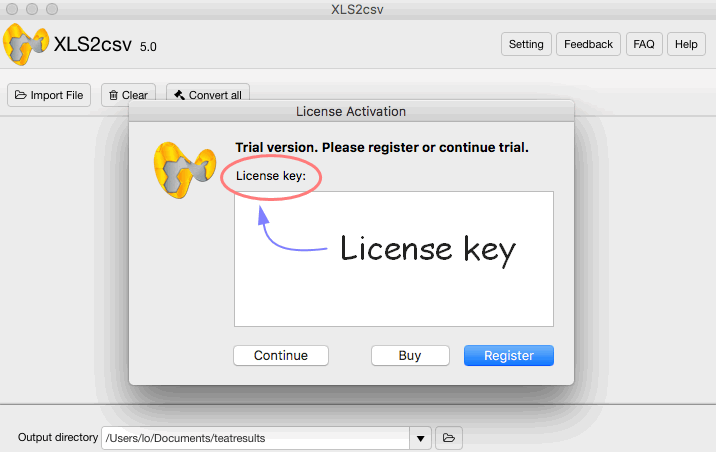
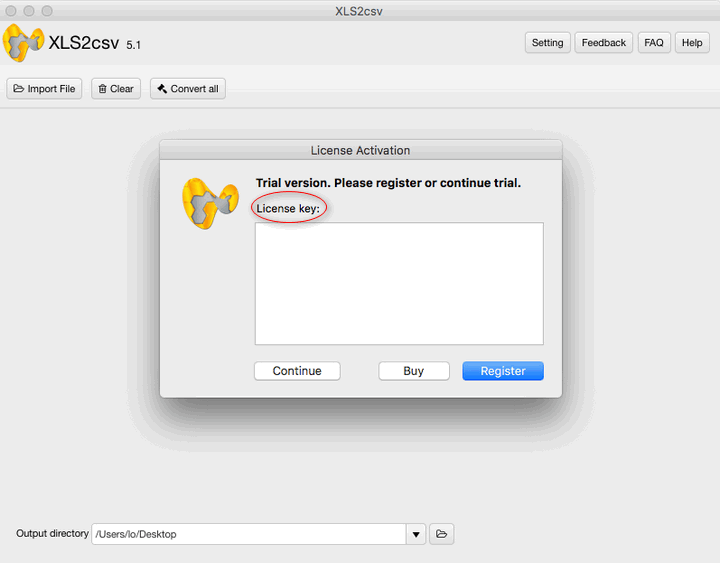
update

Changed region(s): [[0.0, 0.0, 1.0, 1.0], [0.7067, 0.0619, 0.9832, 0.1239], [0.4609, 0.0, 0.5531, 0.031]]

diff --git a/source/products/store/xls2csv/docs.md b/source/products/store/xls2csv/docs.md
@@ -8,7 +8,7 @@ current: docs
 
 # MANUAL
 ## XLS2csv
-Excel XLS/XLSX files to CSV Converter app for Mac OS X
+XLS/XLSX to CSV Converter app for Mac OS X
 
 Version 5.1
 
@@ -17,57 +17,50 @@ Version 5.1
 
  ### **Preface**:
 
->Are you thrive to improve your working efficiency?
+>Are you trying to improve your working efficiency?
 
->Have you need your XLS files be interpreted quickly?
+>Need to handle large XLS or XLSX files on you Mac?
 
->Do you need to make your data to be saved in a table structured format?
+>Want to change Excel spreadsheets into plain text CSV?
 
-If you answer yes to one of these questions, the XLS2csv is the best choice for you.
+If your answer is yes, XLS2csv is what you need.
 
 <br>
 ### **Introduction**: 
-XLS is a MS Excel workbook binary file, which holds information about all the worksheets in a workbook, comprising both content and formatting (number masking, colouring, conditional formatting, etc), and it can also hold additionals like charts, images, etc. XLS files can only be read by applications that have been especially written to read their format, and can only be written in the same way.
+XLS is the default file format for the 2003 version of Excel and older while XLSX for versions since 2007. XLS is based on BIFF (Binary Interchange File Format) and as such, the information is directly stored to a binary format. On the other hand, XLSX is based on the Office Open XML format, a file format that was derived from XML. The information in an XLSX file is stored in a text file that uses XML to define all its parameters.
 
-A CSV file is a way to collect the data from any table so that it can be conveyed as input to another table-oriented application such as a relational database application. Microsoft Excel, a leading spreadsheet or relational database application, can read CSV files. A CSV file is sometimes referred to as a flat file.
+CSV files hold plain text as a series of values (cells) separated by commas (,) in a series of lines (rows). You can actually open a CSV file in a text editor and read it yourself. Many applications are capable of reading CSV files, and many languages provide built-in functions that simplify reading/writing CSV format.
 
-XLS2csv is an image format converter which tends to convert XLS to CSV format. The software is made for Mac users only (**macOS 10.7(64-bit)** or newer is required). Users will be released from annoying ads, bundled softwares, plug-ins, even log in and registration. By simply enjoying the swift, comfortable operation of XLS2csv, you are able to join our community and get our excellent after-sale services.  
+XLS2csv is a file converter which tends to convert XLS/XLSX files to CSV format. With it installed, you can not only do file conversion but also join our community and get our excellent after-sale services. No annoying ads, bundled software and plug-ins will be added onto your Mac. 
 
 <br>
 ### **Installation**:
-XLS2csv runs on Mac only, MacOS 10.7(64-bit) or newer is required. The new version 5.1 is released now in [DOWNLOAD](./download.html). 
+XLS2csv runs on Mac only, Mac OS X 10.7(64-bit) or above is required. The new version 5.1 is now released on our [DOWNLOAD page](./download.html). You can choose to download the .zip or .dmg package. When you open and run the software, the product interface will pop up. The following "User Guide" will instruct you how to use it. 
 
-There is a install package in [DOWNLOAD](./download.html) page, you need to choose one suitable package, click it and wait for the downloading. Then choose a suitable folder to put the software in and click "open" to run it.   
-
-When you open and run the software, the product interface will pop up. The following "User Guide" will instruct you how to operate it. 
-
-If you encounter any problems during or after installing XLS2csv please refer to [Frequently Asked Questions (FAQ)](./faq.html) first.
-
-**The trial version** for users to try out is also available in [DOWNLOAD](./download.html), and combined with the install package.
-
-
- You can click and download one of the files. When you open and run the software, a little window will pop up. If you choose to try out, click "continue" button, you can freely try this software thirty days. If you wanna to buy our product, then click "Buy" button to enter the online store. 
+ Once you run the software, a little window will pop up as below. If you choose to try it out, click "continue" button, you can try it for free 30 days. If you want to buy our product, click "Buy" button to enter the online store. 
 
 ![](./images/screens/xls2csv_trialversion_720x400.png) 
 
-If you encounter any problems during or after installing XLS2csv please refer to [Frequently Asked Questions (FAQ)](./faq.html) first.
+If you encounter any problems during or after installing XLS2csv, please refer to [Frequently Asked Questions (FAQ)](./faq.html) first.
 
 <br>
 ### **User Guide**:
-This section describes daily use guide to the XLS2csv clients. It instructs you how to use the software in details after the installation finished.
+This section instructs you how to purchase and run XLS2csv in detail. 
 
-1. Firstly, you need to open the file and run it, the window of XLS2csv will pop up in the desktop. As what have mentioned before, if you want to try out this software first, click "continue" to use the trial version, you have thirty days to try it freely. If you satisfied with our product,and decided to pay for it, please click the "Buy" button or directly come to our home page and enter the [BUY ONLINE](./buy.html)
+1. Firstly, run XLS2csv on your desktop. As what have mentioned before, if you want to try it out, simply click "continue". The free trial version will stop working after 30 days. If you are satisfied with our product, and decide to pay for it, please click the "Buy" button or directly go to our [BUY ONLINE](./buy.html).
 <br>
 2. Secondly, in the BUY ONLINE page, there are two optional purchase link for you, that is, you can choose to buy from our **official App store** or the Apple App store. The good news is, we offer a **coupon code** below the purchase link for anyone who is willing to buy from the Gmagon official App store. 
-<br>
 ![](./images/screens/xls2csv_buyonline_720x400.png) 
 <br>
 3. Thirdly, in the Gmagon Online Store, you need to put the product in your cart, fill the Billing Information, choose your payment information, and finish the whole purchase process.
-<br>
 ![](./images/screens/xls2csv_onlinestore_720x400.png) 
 <br>
-4. Finally, after you finish the purchasing process of the product, you can get the **active code** from us. When you run the software, a registered window will pop up, then you need to copy and paste the active code in the **license key** text box, then click "register" button to finish the License Activation.
-<br>
+4. Finally, after you finished the purchasing process, you can get the **active code** from us. When you run the software, a registered window will pop up, then you need to copy and paste the active code in the **license key** text box, then click "register" button to finish the License Activation.
 ![](./images/screens/xls2csv_licensekey_720x400.png)  
-<br>
-Hope the XLS2csv will help you enjoy a high-quality user experience and make your life more convenient than ever. We'd like to receive and answer any question from you, if you are willing to communicate with us in <a href="https://gitter.im/Gmagon/support" target="_blank" rel="nofollow me noopener noreferrer"> <strong>Support Center</strong> </a> and join our community. We will strive to provide the best services we can offer with our customers. 
+
+Hope Gmagon XLS2csv will help you enjoy a high-quality user experience and make your life more convenient than ever. We'd like to receive and answer any question from you, if you are willing to communicate with us in <a href="https://gitter.im/Gmagon/support" target="_blank" rel="nofollow me noopener noreferrer"> <strong>Support Center</strong> </a> and join our community. We will strive to provide the best services we can offer with our customers. 
+
+**Learn more**
+- [How to convert XLS to CSV on a Mac? ](../../../guide/convert-xls-to-csv-on-mac.html)
+- [How to convert a .xlsx file to .csv on Mac?](../../../guide/how-to-convert-a-xlsx-file-to-csv-on-mac.html)
+- [CSV UTF8 - Excel XLS to CSV with UTF-8 encoding ](../../../guide/xls2csv/csv-utf8.html)

diff --git a/source/products/store/xls2csv/index.md b/source/products/store/xls2csv/index.md
@@ -3,8 +3,8 @@ title: XLS2csv - convert XLS files to CSV on Mac
 subtitle: XLS2csv
 comments: false
 current: index
-keywords: xls/xlsx to csv converter for mac, convert excel files to csv on mac, excel files to csv converter mac, mac xls 2 csv converter, export xls/xlsx to csv 
-description: XLS2csv is an easy-to-use Excel XLS/XLSX to CSV converter for Mac. It helps users to batch convert XLS/XLSX files to CSV format on Mac OS X. 
+keywords: xls2csv, xlsx to csv converter, xls to csv converter mac, mac xlsx to csv converter, excel to csv converter for mac
+description: XLS2csv is an easy-to-use XLS/XLSX to CSV converter for Mac. It helps users to batch convert XLS/XLSX files to CSV format on Mac OS X. 
 ---
 
 
@@ -12,9 +12,11 @@ description: XLS2csv is an easy-to-use Excel XLS/XLSX to CSV converter for Mac. 
 
 ![](./images/screens/xls2csv.gif)
 <br>
-**XLS2csv** is an easy-to-use file converter that easily converts Excel files out there to CSV format on Mac, namely, it is an XLS to CSV converter for Mac. It helps those who are looking for a handy app to convert XLS files to CSV format on Mac OS X. The software can intelligently recognize an XLS file and convert it to CSV format quickly. In addition, batch conversion from xls to csv is also supported here. Users are allowed to drag and drop a file or directory to the interface of XLS2csv, and preview the loaded Excel speadsheets before the conversion. By clicking Setting button, users can set up their preferable language of the tool. Besides, there are Feedback, FAQ and Help choices for users' convenience in case any problems occurred during users' experience.
+**XLS2csv** a simple and intuitive XLS/XLSX to CSV Converter for Mac. It handles .xls/.xlsx files from Microsoft Excel, Apple Numbers, Open Offices Excel and converts them to .csv text file format on Mac platform. 
 
-XLS2csv converter fits into any budget and grows with your needs. Try the XLS2csv now and see how it can make your job easier. Everything you need is contained in one simple installer, no additional downloads or plug-ins are required. We make it simple for you, now and later!
+This Mac XLS2csv converter app can intelligently recognize large XLS/XLSX files as well as a group of XLS/XLSX files and batch convert them to CSV format quickly. Users are allowed to drag-and-drop a file or directory to the interface of XLS2csv, and preview the loaded Excel spreadsheets before conversion. Plus, you can customize delimiters in the CSV as comma, semicolon, space, tab, etc.
+
+XLS2csv converter fits into any budget and grows with your needs. Try the app now and see how it can make your job easier. Everything you need is contained in one simple installer, no additional downloads or plug-ins are required. We make it simple for you, now and later!
 
 <br>
 <div class="buy">
@@ -25,14 +27,13 @@ XLS2csv converter fits into any budget and grows with your needs. Try the XLS2cs
 <br>
 
 ## USE CASES: BUILT FOR YOU
- XLS is an MS Excel workbook binary file, which holds information about all the worksheets in a workbook, and can also hold additionals like charts, images, etc. XLS files can only be read by applications that have been especially written to read their format, and can only be written in the same way. Pre-2007 versions of Excel use XLS as the primary format for saving files. It features calculation, graphing tools, pivot tables, and a macro programming language called Visual Basic for Applications. It has been a very widely applied spreadsheet for these platforms 
+XLS and XLSX are two file extensions that are used by the very popular spreadsheet application from Microsoft named Microsoft Excel. XLS is very popular as it has been the default format for Microsoft Excel since it was first created up till 2003. In the Microsoft Office 2007 release, Microsoft decided to change the default file format to a different format and adding and additional x for all their document extensions; for Excel, this ended up as XLSX.
 
-A CSV is a comma separated values file which allows data to be saved in a table structured format. CSV files can be used with any spreadsheet program, such as Microsoft Excel, Open Office Calc, or Google Spreadsheets. They differ from other spreadsheet file types in that you can only have a single sheet in a file, they can not save cell, column, or row styling, and can not save formulas. In e-commerce, CSVs are used primarily for importing and exporting product, customer, and order information to and from your store:
+As we look deeper into the differences between XLS and XLSX, we can see that the way the information is stored is vastly different for both XLS and XLSX formats. XLS is based on BIFF (Binary Interchange File Format) and as such, the information is directly stored to a binary format. On the other hand, XLSX is based on the Office Open XML format, a file format that was derived from XML. The information in an XLSX file is stored in a text file that uses XML to define all its parameters.
 
-1. **Importing and Exporting Products**: Importing your products is the fastest way to create or update products in bulk. A product import involves having all of your product information in a CSV file, which can be edited as a spreadsheet. Upon import, your column headers will be matched with their corresponding product, and the product information will be updated accordingly. Importing products has a variety of uses, such as updating products, creating new products and options, etc. 
-<br>
-2. **Importing Product Options**: Importing your options is an efficient way to handle the sometimes lengthy task of adding product options to each of your products. The following guide walks you through creating Product Options by importing a CSV file file. 
-<br>
-3. **Importing Customers**: Importing your customers is the fastest way to add or update their information in bulk. A customer import involves having all of your customer information in a CSV file, which can be edited as a spreadsheet. Upon import, your column headers will be matched with their corresponding customer fields, and the customer information will be updated accordingly.
-<br>
+As XLSX is stored in a text file format, Microsoft decided to remove macro support for this file format. Instead they assigned a totally different file extension that allows the use of macros; it is named XLSM. The older XLS file extension does not have this issue and it is able to hold spreadsheets that contain macros or not.
+
+A CSV is a comma separated values file which allows data to be saved in a table structured format. CSV files can be used with any spreadsheet program, such as Microsoft Excel, Open Office Calc, or Google Spreadsheets. They differ from other spreadsheet file types in that you can only have a single sheet in a file, they can not save cell, column, or row styling, and can not save formulas. In e-commerce, CSVs are used primarily for importing and exporting product, customer, and order information to and from your store.
+
+CSV files hold plain text as a series of values (cells) separated by commas (,) in a series of lines (rows). You can actually open a CSV file in a text editor and read it yourself. CSV files are intentionally designed to be widely supported; any OS or application that imports or exports data usually has CSV support.  
 ![](./images/screens/xls2csv_1440x900.jpg)

diff --git a/source/products/store/xls2csv/changelog.md b/source/products/store/xls2csv/changelog.md
@@ -73,8 +73,10 @@ current: changelog
 ### Core Engine part
 > Upgrade to Ver1.14
 
-
 <br>
-### Downloads:
-[Download XLS2csv-v5.1.dmg](http://www.filefactory.com/file/4bsfcg1ev6hv/XLS2csv-5.1.dmg)    | (~10.5MiB)
+### Download
+for macOS 64-bit OS | FileSize
+------------------------------ | -------------------------
+[Download XLS2csv-v5.1.dmg](http://www.filefactory.com/file/3erf0icxce6r/XLS2csv-5.1.dmg)    | (~10.52MiB)
+[Download XLS2csv-5.1.zip](http://www.filefactory.com/file/29qg8m1099l3/XLS2csv-5.1.zip)    | (~10.74MiB)
 ---

diff --git a/source/products/store/xls2csv/download.md b/source/products/store/xls2csv/download.md
@@ -16,8 +16,8 @@ For detailed info on what's new, read the [release notes](./changelog.html).
 
 for macOS 64-bit OS | FileSize
 ------------------------------ | -------------------------
-[Download XLS2csv-v5.1.dmg](http://www.filefactory.com/file/4bsfcg1ev6hv/XLS2csv-5.1.dmg)    | (~10.5MiB)
-
+[Download XLS2csv-v5.1.dmg](http://www.filefactory.com/file/3erf0icxce6r/XLS2csv-5.1.dmg)    | (~10.52MiB)
+[Download XLS2csv-5.1.zip](http://www.filefactory.com/file/29qg8m1099l3/XLS2csv-5.1.zip)    | (~10.74MiB)
 ---
 
 ##### Old Download

diff --git a/source/products/store/xls2csv/faq.md b/source/products/store/xls2csv/faq.md
@@ -9,3 +9,8 @@ current: faq
 ### What are the system requirements of XLS2csv?
 - MacOS 10.7(64-bit) or newer is required.
 - Admin privileges for the Installation
+
+**Click the links below to learn more**
+- [How to convert XLS to CSV on a Mac? ](../../../guide/convert-xls-to-csv-on-mac.html)
+- [How to convert a .xlsx file to .csv on Mac?](../../../guide/how-to-convert-a-xlsx-file-to-csv-on-mac.html)
+- [CSV UTF8 - Excel XLS to CSV with UTF-8 encoding ](../../../guide/xls2csv/csv-utf8.html)
